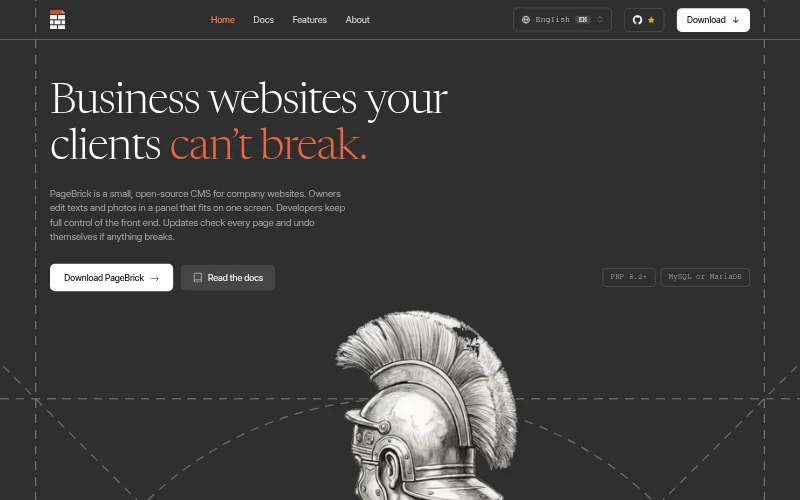
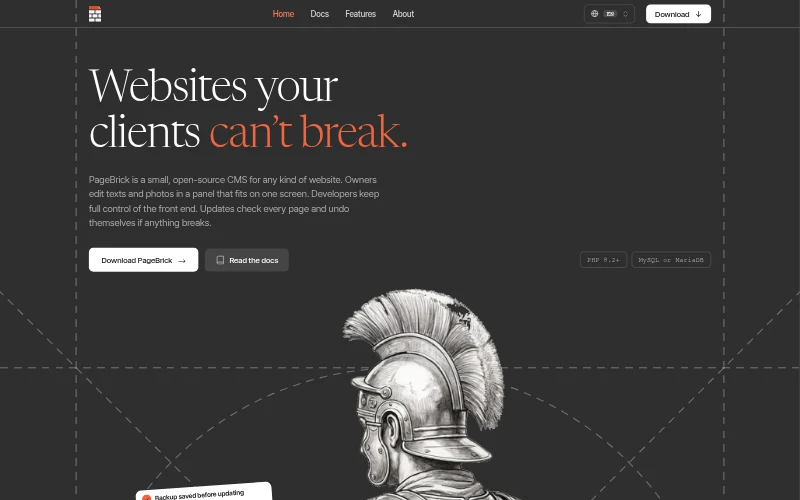
Theme 2.0.2: a reading line instead of the scrollbar, and a new picture of the theme
The browser's scrollbar is hidden when the theme's script runs, and a 2px line on the right edge fills with orange as the page is read (plain CSS and JavaScript, decorative, nothing changes without the script). Code blocks that scroll by themselves keep a thin bar in the same colours. The picture shown on the Themes screen is the current top of the home page.

diff --git a/pagebrick-org/assets/style.css b/pagebrick-org/assets/style.css
@@ -56,6 +56,16 @@ h1, h2 { font-family: var(--serif); font-weight: 300; letter-spacing: -.025em; }
 .sr-only { position: absolute; width: 1px; height: 1px; margin: -1px; padding: 0; overflow: hidden; clip-path: inset(50%); white-space: nowrap; }
 .skip:focus { left: 16px; top: 12px; z-index: 40; padding: 8px 12px; background: #fff; color: var(--ink); }
 
+/* The reading line: the browser's own scrollbar is hidden (only when the script runs, so without it nothing changes) and a thin line on the right edge
+   shows how much of the page was read. It is a picture: no focus, no clicks; keyboard and wheel scrolling stay the browser's. */
+html.js { scrollbar-width: none; }
+html.js::-webkit-scrollbar { display: none; }
+.scroll-line { position: fixed; top: 0; right: 0; z-index: 100; width: 2px; height: 100%; background: rgba(128, 128, 128, .18); pointer-events: none; }
+.scroll-line > i { display: block; height: 100%; background: var(--orange); transform-origin: top; transform: scaleY(0); }
+/* areas that scroll by themselves keep a thin bar, in the same two colours */
+pre { scrollbar-width: thin; scrollbar-color: var(--orange) rgba(128, 128, 128, .18); }
+@media print { .scroll-line { display: none; } }
+
 /* Labels, notes and code speak in monospace. */
 .label, .note, .number, .footer-base, .menu-toggle, .plan-step { font-family: var(--mono); letter-spacing: .01em; }
 

diff --git a/pagebrick-org/assets/site.js b/pagebrick-org/assets/site.js
@@ -172,3 +172,16 @@ document.querySelectorAll('[data-simulator]').forEach(box => {
         buttons.forEach(b => { b.disabled = false; });
     }));
 });
+
+// Reading line: how much of the page was read (the browser's scrollbar is hidden, see .scroll-line in style.css).
+const line = document.querySelector('.scroll-line > i');
+if (line) {
+    const draw = () => {
+        const max = document.documentElement.scrollHeight - innerHeight;
+        line.style.transform = 'scaleY(' + (max > 0 ? Math.min(1, Math.max(0, scrollY / max)) : 0) + ')';
+    };
+    addEventListener('scroll', draw, {passive: true});
+    addEventListener('resize', draw);
+    if ('ResizeObserver' in window) new ResizeObserver(draw).observe(document.body); // the page grows when pictures load
+    draw();
+}

diff --git a/pagebrick-org/layout.php b/pagebrick-org/layout.php
@@ -18,6 +18,7 @@ $download = $site->project->download->url(); // the page with the download butto
 <link rel="icon" href="<?= e($site->identity->icon->isEmpty() ? pb_theme_url('assets/favicon.svg') : $site->identity->icon->url('thumb')) ?>">
 </head>
 <body>
+<div class="scroll-line" aria-hidden="true"><i></i></div>
 <a class="skip" href="#main"><?= e(__('Pular para o conteúdo')) ?></a>
 <header class="site-header">
     <div class="wrap header-row">

diff --git a/README.md b/README.md
@@ -49,6 +49,10 @@ Para gerar o .zip, rode a partir da pasta do CMS (com o Docker de desenvolviment
 docker run --rm -v "<pasta pagebrick.org>:/site" -v "<pasta pagebrick>:/app" pagebrick-app php -r 'define("PB_ROOT", "/app"); require "/app/core/bootstrap.php"; $z = new ZipArchive; $z->open("/site/pagebrick-org.zip", ZipArchive::CREATE | ZipArchive::OVERWRITE); pb_zip_add_folder($z, "/site/pagebrick-org", "pagebrick-org"); $z->close(); pb_inspect_package("/site/pagebrick-org.zip", "theme"); echo "ok\n";'
 ```
 
+## A linha de leitura
+
+No lugar da barra de rolagem do navegador (escondida só quando o JavaScript do tema roda) há um fio de 2 px na borda direita da tela, que se enche de laranja conforme a página é lida. Ele é decorativo (`aria-hidden`, sem foco, sem clique); a rolagem por roda, teclado e toque continua sendo a do navegador, suave para quem não pediu menos movimento. Os blocos de código com rolagem própria mantêm uma barra fina nas mesmas cores. Para voltar à barra de sempre, apague as duas regras `html.js` e o `.scroll-line` no começo do `assets/style.css`.
+
 ## Endereço do GitHub
 
 O topo do site não tem botão do GitHub. O endereço do repositório, em Contact → Project → GitHub repository, continua sendo usado pela página de download: se o GitHub não responder, o botão leva para a página de versões do projeto.
